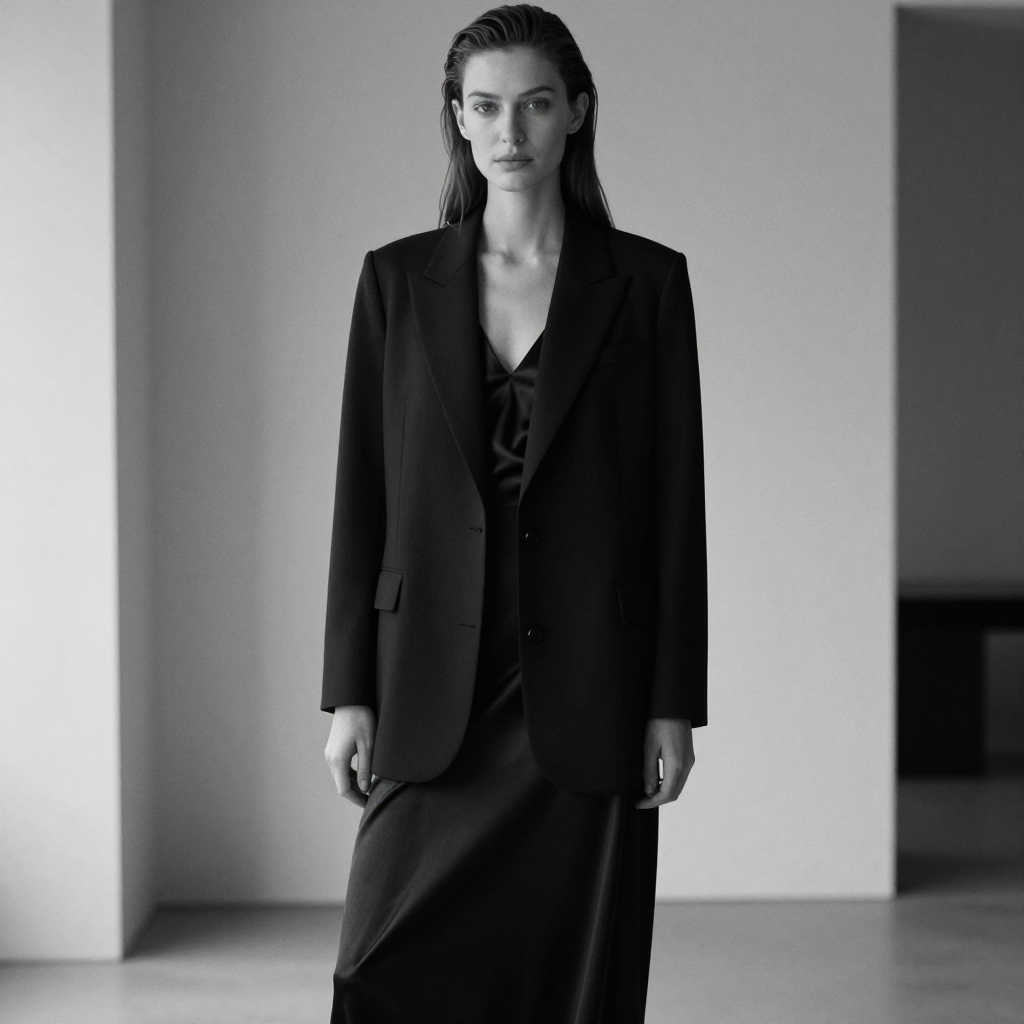
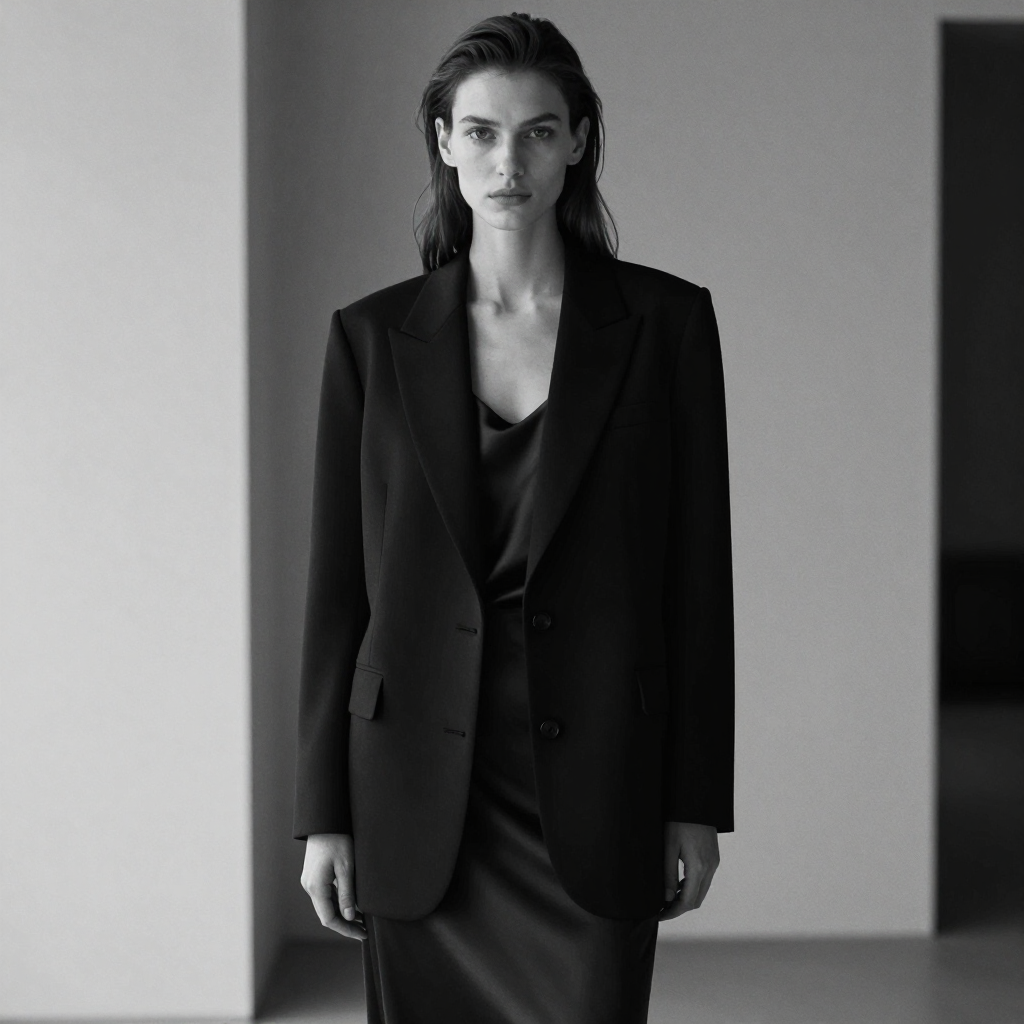
fixed hero and 3th coat

diff --git a/index.js b/index.js
@@ -89,7 +89,7 @@ const pages = {
                 price: "2 100 000 UZS"
             },
             {
-                img: "./img/org/eveningLight.png",
+                img: "./img/coat/coat6.png.png",
                 name: "Pearl Lightweight Coat",
                 price: "1 500 000 UZS"
             },
